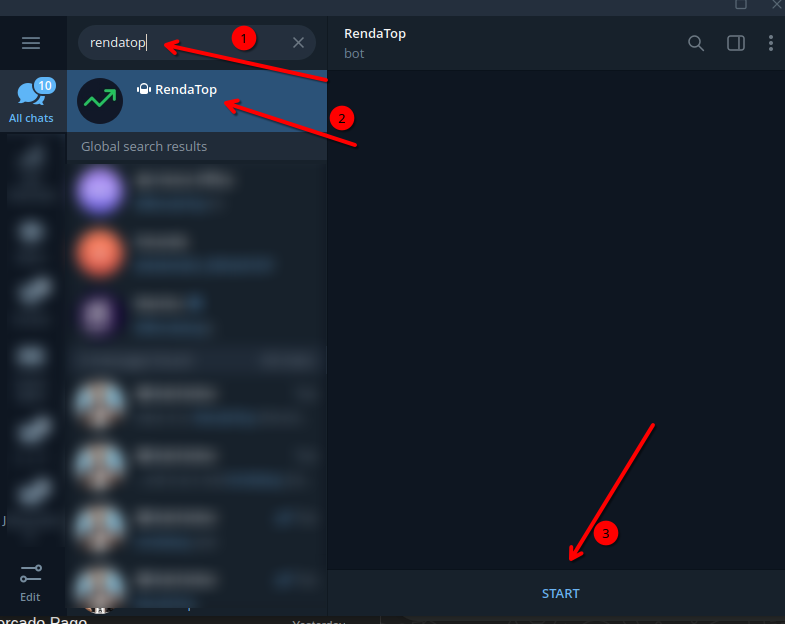
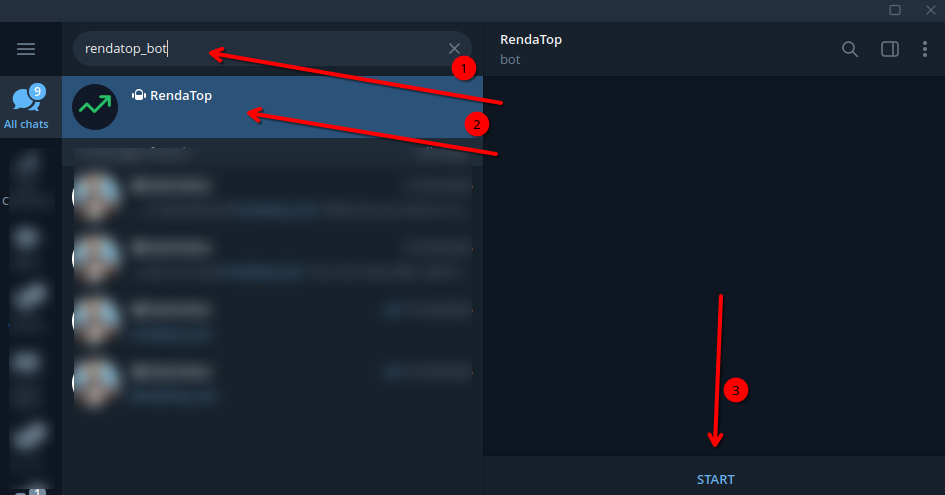
Fixing telegram instructions

diff --git a/client/src/pages/UserSettings.jsx b/client/src/pages/UserSettings.jsx
@@ -16,7 +16,7 @@ import { formatCpf } from "@/utils/cpf"
 const telegramChatIdSteps = [
     {
         title: "Abra seu Telegram e busque pelo app RendaTop",
-        description: "Abra o aplicativo do Telegram no celular ou no computador. Na busca do Telegram, procure por RendaTop e abra a conversa com o bot e clique no botão Start.",
+        description: "Abra o aplicativo do Telegram no celular ou no computador. Na busca do Telegram, procure por 'rendatop_bot', abra a conversa com o bot e clique no botão Iniciar/Start.",
         imageAlt: "Passo 1 para obter o chatID no Telegram",
         imageSrc: "/chatid1.png"
     },
